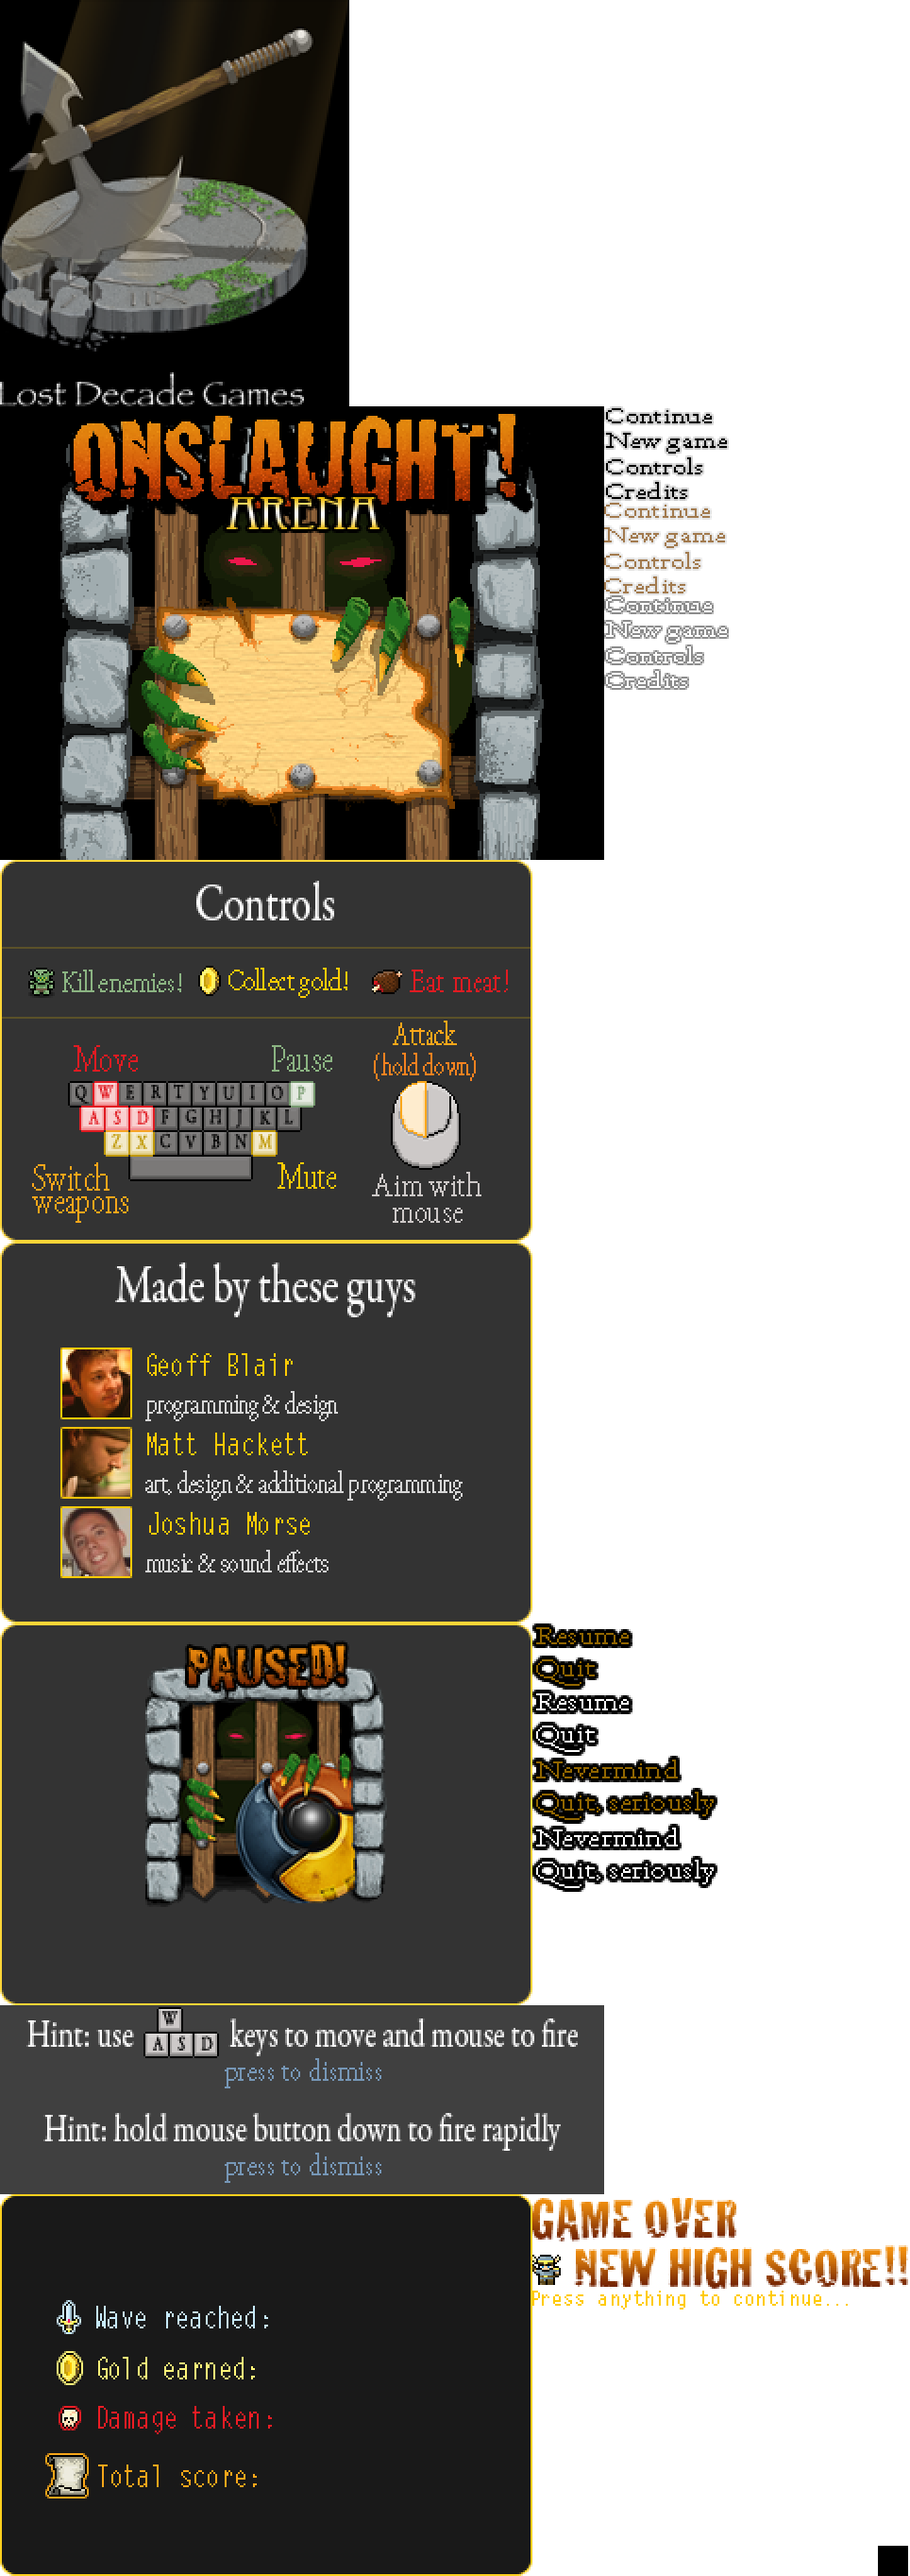
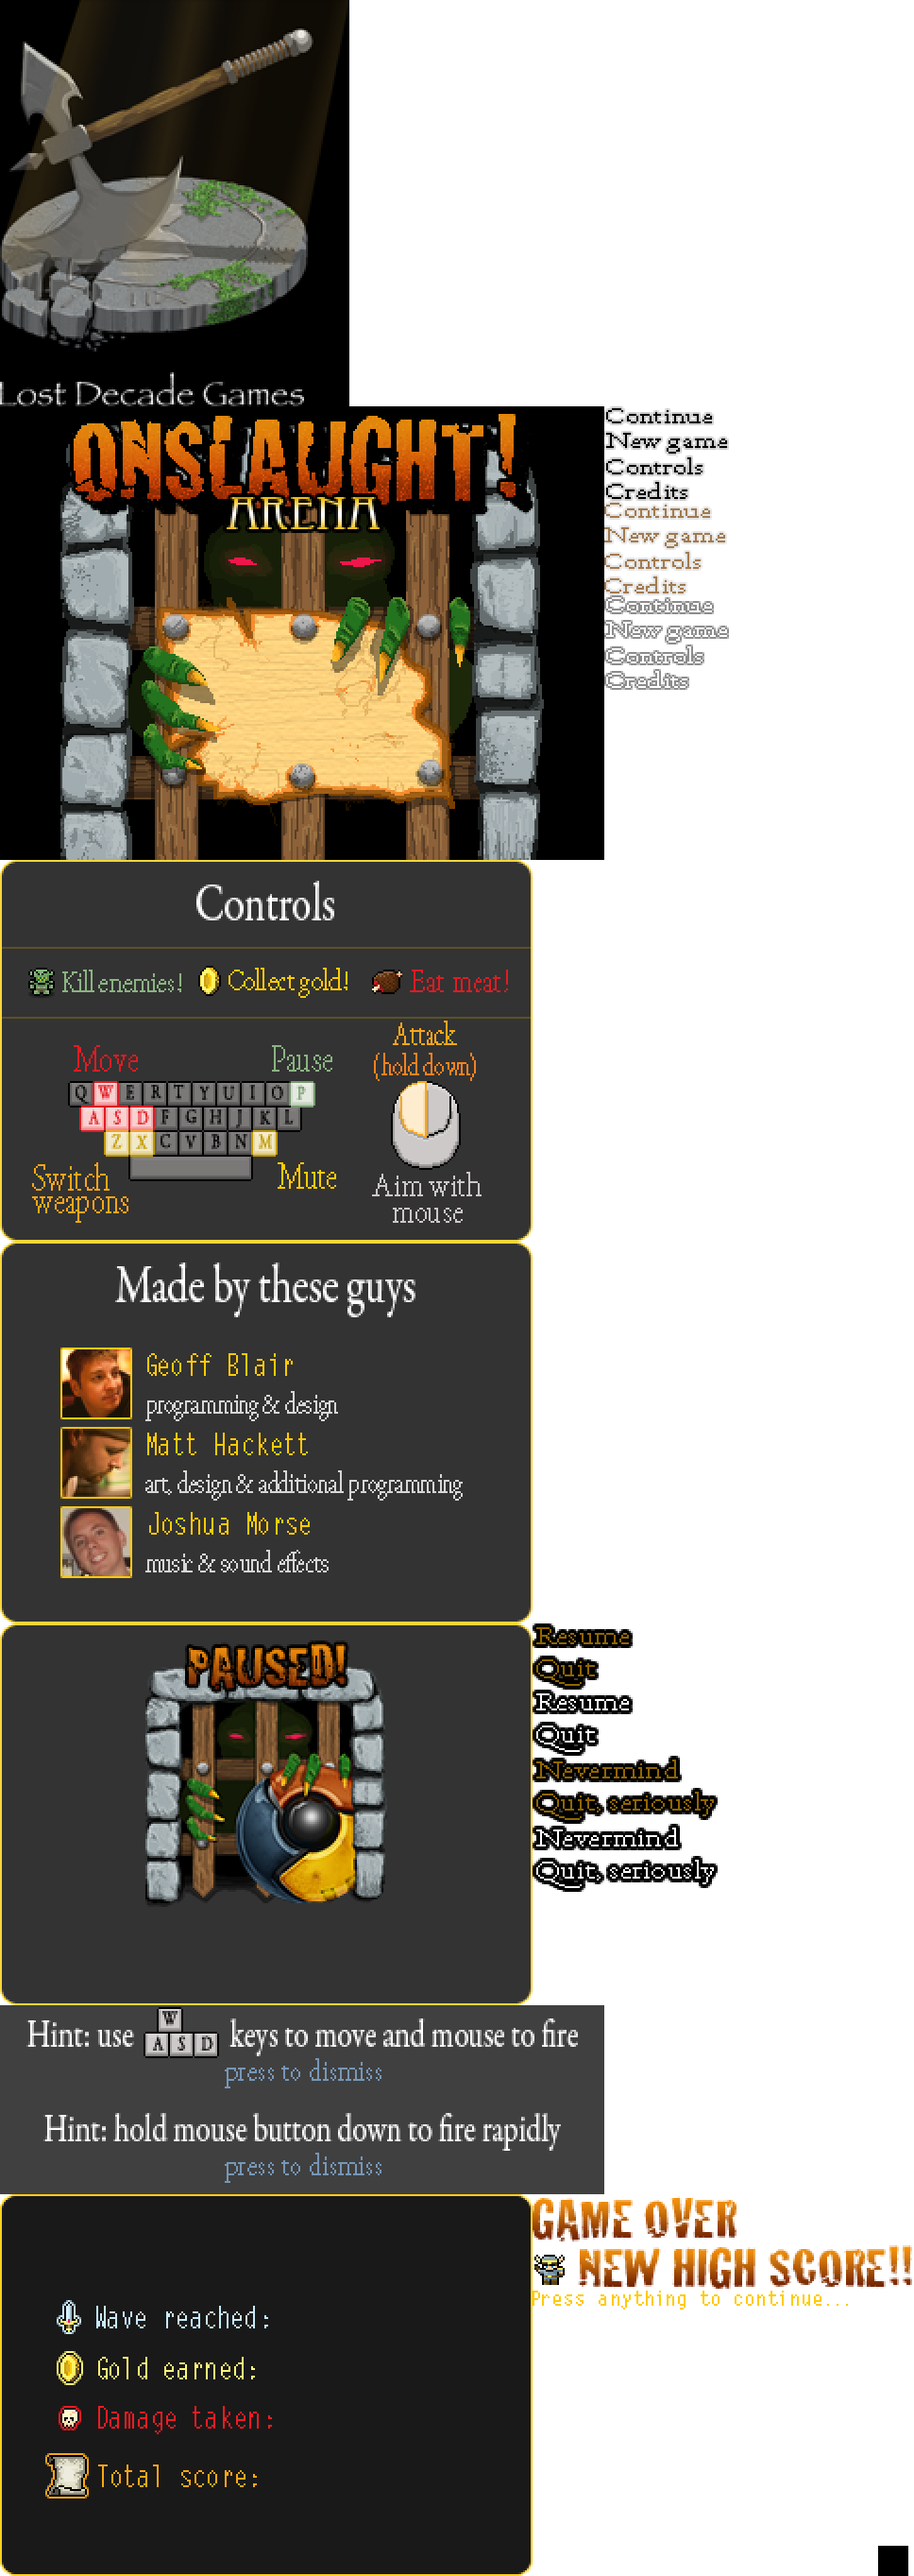
most of the new game flow is in

diff --git a/htdocs/js/engine.js b/htdocs/js/engine.js
@@ -343,6 +343,7 @@ proto.initGame = function () {
 
 	// Spawn a couple weapons scrolls to give the player an early taste of the fun!
 	var player = this.getPlayerObject();
+player.wounds = 100; // TODO: remove
 	
 	var wep = horde.makeObject("item_weapon_knife");
 	wep.position = player.position.clone();
@@ -1202,7 +1203,7 @@ proto.updateWaves = function horde_Engine_proto_updateWaves (elapsed) {
 			// Triggers on the first wave after a boss: 11, 21, 31, 41
 			this.putData("checkpoint_wave", this.currentWaveId);
 			this.putData("checkpoint_hero", JSON.stringify(this.getPlayerObject()));
-			waveTextString = "CHECKPOINT!";
+			waveTextString = "Game Saved!";
 		}
 		if (this.currentWaveId >= this.waves.length) {
 			// Waves have rolled over, increase the difficulty!!
@@ -2253,7 +2254,7 @@ proto.drawGameOver = function horde_Engine_proto_drawGameOver (ctx) {
 
 	ctx.save();
 	ctx.globalAlpha = this.gameOverAlpha;
-	ctx.fillStyle = "rgb(215, 25, 32)";
+	ctx.fillStyle = "rgb(215, 25, 32)"; // red
 	ctx.fillRect(0, 0, this.view.width, this.view.height);
 	ctx.restore();
 
@@ -2265,13 +2266,39 @@ proto.drawGameOver = function horde_Engine_proto_drawGameOver (ctx) {
 			return;
 		}
 
+		var headerY = 70;
+
+		// Modal
 		ctx.drawImage(
 			this.preloader.getImage("ui"),
 			0, 2322, 564, 404,
-			41, 65, 564, 404
+			38, 38, 564, 404
 		);
-		
+
+		// Game Over
+		var gotNewHighScore = false; // TODO
+		if (gotNewHighScore) {
+			ctx.drawImage(
+				this.preloader.getImage("ui"),
+				564, 2374, 404, 50,
+				119, headerY, 404, 50
+			);
+		} else {
+			ctx.drawImage(
+				this.preloader.getImage("ui"),
+				564, 2324, 218, 50,
+				211, headerY, 218, 50
+			);
+		}
+
 		this.drawObjectStats(this.getPlayerObject(), ctx);
+
+		// Press anything to continue ...
+		ctx.drawImage(
+			this.preloader.getImage("ui"),
+			564, 2424, 334, 20,
+			153, 404, 334, 20
+		);
 		
 	}
 	
@@ -2280,6 +2307,7 @@ proto.drawGameOver = function horde_Engine_proto_drawGameOver (ctx) {
 proto.drawObjectStats = function horde_Engine_proto_drawObjectStats (object, ctx) {
 	
 	// Calculate weapon accuracy
+	/*
 	if (object.shotsFired > 0) {
 		var accuracy = ((object.shotsLanded / object.shotsFired) * 100).toFixed(0) + "%";
 	} else {
@@ -2301,26 +2329,43 @@ proto.drawObjectStats = function horde_Engine_proto_drawObjectStats (object, ctx
 	} else {
 		favoredType = '';
 	}
+	*/
+
+	var textX = 350;
+	var textHeight = 55;
 	
 	ctx.save();
-	
-	ctx.fillStyle = "rgb(255, 255, 255)";
-	ctx.font = "Bold 35px Monospace";
-	ctx.textAlign = "center";
 
-	ctx.fillStyle = "rgb(237, 28, 36)";
-	ctx.fillText(object.kills, 175, 225);
+	ctx.font = "Bold 35px Monospace";
+
+	// Wave reached
+	ctx.fillStyle = "rgb(199, 234, 251)";
+	ctx.fillText((this.currentWaveId + 1), textX, 180);
+
+	// Gold earned
 	ctx.fillStyle = "rgb(255, 245, 121)";
+	ctx.fillText(object.gold, textX, 180 + textHeight);
+
+	// Damage taken
+	var TODO = "TODO"; // Total wounds
+	ctx.fillStyle = "rgb(237, 28, 36)";
+	ctx.fillText(TODO, textX, 180 + (textHeight * 2));
+
+	// Total score
+	var TODO = "TODO"; // Total score
+	ctx.fillStyle = "rgb(250, 116, 26)";
+	ctx.fillText(TODO, textX, 180 + (textHeight * 3));
+
+/*
+	ctx.fillText(object.kills, 175, 225);
 	ctx.fillText(object.gold, 175, 305);
 	ctx.fillStyle = "rgb(108, 192, 113)";
 	ctx.fillText(object.meatEaten, 175, 385);
-	
-	ctx.fillStyle = "rgb(199, 234, 251)";
 	ctx.fillText(object.shotsFired, 450, 225);
 	ctx.fillStyle = "rgb(207, 18, 140)";
 	ctx.fillText(accuracy, 450, 305);
-	ctx.fillStyle = "rgb(250, 166, 26)";
 	ctx.fillText(favoredType, 450, 385);
+	*/
 	
 	ctx.restore();
 	
@@ -2386,8 +2431,9 @@ proto.drawPaused = function horde_Engine_proto_drawPaused (ctx) {
 	ctx.drawImage(
 		this.preloader.getImage("ui"),
 		0, 1718, 564, 404,
-		41, 65, 564, 404
+		38, 38, 564, 404
 	);
+
 	ctx.restore();
 
 };
@@ -2720,7 +2766,7 @@ proto.drawTitle = function horde_Engine_proto_drawTitle (ctx) {
 
 proto.drawPointer = function horde_Engine_proto_drawPointer (ctx) {
 
-	var textY = (this.pointerYStart - TEXT_HEIGHT);
+	var textY = (this.pointerYStart - 18);
 	var x = (POINTER_X - 42);
 	var y = (this.pointerYStart + (this.pointerY * POINTER_HEIGHT) - POINTER_HEIGHT);
 
@@ -2842,10 +2888,11 @@ proto.initOptions = function () {
 			}
 			break;
 		case "running":
-			this.pointerYStart = 402;
+			this.pointerYStart = 378;
 			this.pointerY = 0;
 			this.numPointerOptions = 1;
 			this.pointerOptionsStart = 0;
+			this.verifyQuit = false;
 			break;
 	}
 
@@ -2859,7 +2906,7 @@ proto.drawHowToPlay = function horde_Engine_proto_drawHowToPlay (ctx) {
 	ctx.drawImage(
 		this.preloader.getImage("ui"),
 		0, 910, 564, 404,
-		41, 65, 564, 404
+		38, 38, 564, 404
 	);
 	ctx.restore();
 };
@@ -2872,7 +2919,7 @@ proto.drawCredits = function horde_Engine_proto_drawCredits (ctx) {
 	ctx.drawImage(
 		this.preloader.getImage("ui"),
 		0, 1314, 564, 404,
-		41, 65, 564, 404
+		38, 38, 564, 404
 	);
 	ctx.restore();
 };
